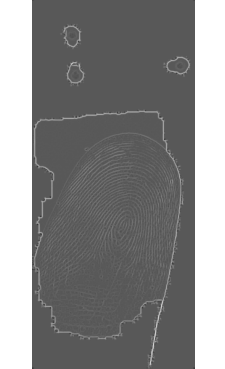
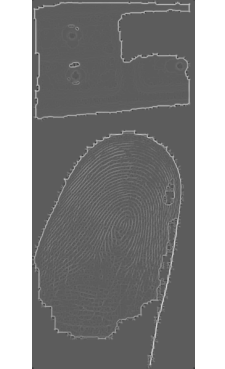
SIFT detect

diff --git a/server/sift_detect.py b/server/sift_detect.py
@@ -5,8 +5,8 @@ import glob, os
 MIN_MATCH_COUNT = 15
 
 #PHOTO TO FIND FEATURE POINTS
-# input_img = cv.imread('/home/aastha/CV_Project/Finger-print/2.png')
-input_img = cv.imread('fig0.png')
+
+input_img = cv.imread('trial-out.png')
 input_img=input_img.astype('uint8')
 gray= cv.cvtColor(input_img,cv.COLOR_BGR2GRAY)
 sift = cv.xfeatures2d.SIFT_create()
@@ -53,6 +53,7 @@ for file in glob.glob("*.png"):
                    flags = 2)
 
     img3 = cv.drawMatches(img1,kp1,img2,kp2,good,None,**draw_params)
+
     cv.imshow("Match",img3)
 
     cv.waitKey(0)

diff --git a/server/__init__.py b/server/__init__.py
@@ -3,7 +3,7 @@ import socket
 
 from PIL import Image, ImageFilter
 
-address = ("10.20.110.88", 5050)
+address = ("192.168.144.178", 5050)
 server = socket.socket(socket.AF_INET, socket.SOCK_STREAM)
 server.bind(address)
 server.listen()

diff --git a/server/remove_back.py b/server/remove_back.py
@@ -1,7 +1,7 @@
 import cv2
 import numpy as np
 
-imgo = cv2.imread('../input/inp.png')
+imgo = cv2.imread('../input/test.png')
 cv2.imshow("imgo",imgo)
 
 #Removing the background
